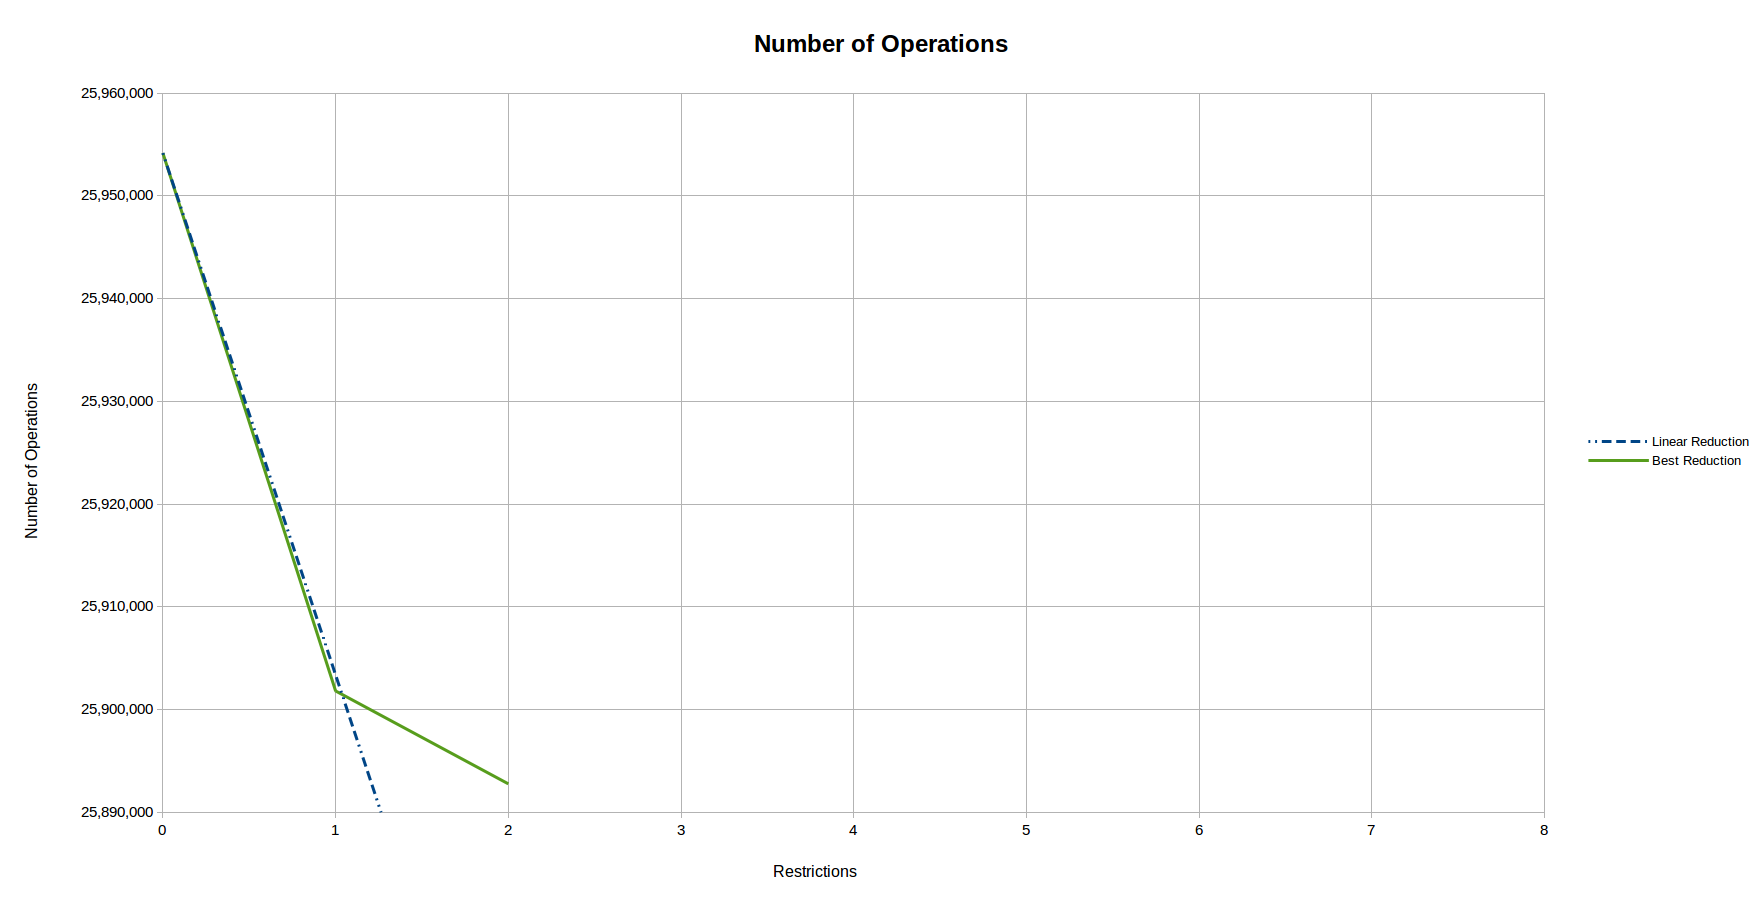
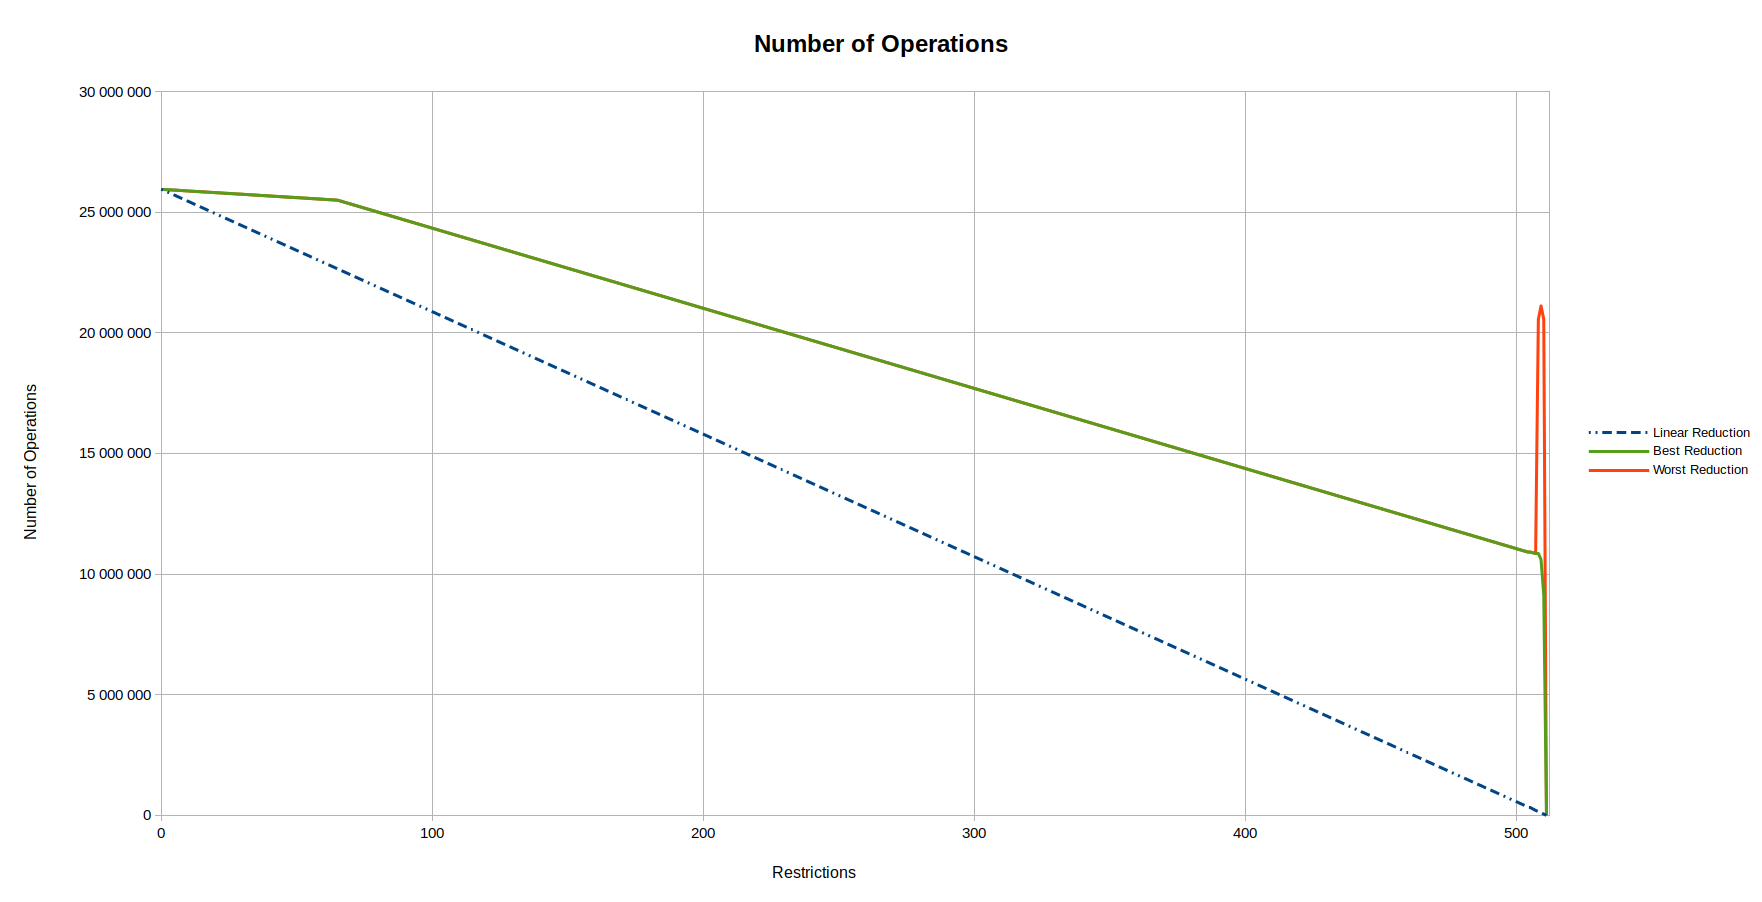
Updated the results report

diff --git a/results/Overview.md b/results/Overview.md
@@ -178,11 +178,20 @@ Results better than the linear reduction are marked in bold.
 
 | Restrictions | Linear Reduction | Best Reduction | Best Restriction |
 |:------------:|:----------------:|:--------------:| ---------------- |
-|       0      | 25,956,122       | 25,956,122     | [Initial Situation](000/000.md) |
-|       1      | 25,905,327       | (**25,901,811**) | ([E031032](001/e031032.md)) |
-|       2      | 25,854,532       | (25,892,767)     | ([T002-E031032](002/t002_e031032.md)) |
+| 0 | 25956122 | 25956122 | 25956122 |
+| 1 | 25905327 | 25950718 | 25950718 |
+| 65 | 22654463 | 25500762 | 25500762 |
+| 504 | 355563 | 10916919 | 10916919 |
+| 505 | 304769 | 10912992 | 10913147 |
+| 507 | 203179 | 10857293 | 10857293 |
+| 508 | 152384 | 10841896 | 20558782 |
+| 509 | 101590 | 10603142 | 21116857 |
+| 510 | 50795 | 9126531 | 20564230 |
+| 511 | 0 | 0 | 0 |
 
 ![Number of Operations](Number_of_Operations.png "Number of Operations")
+
+![Number of Operations for 500 Restrictions and More](Number_of_Operations_500_or_Higher.png "Number of Operations for 500 Restrictions and More")
 
 ## Number of Assignments
 
